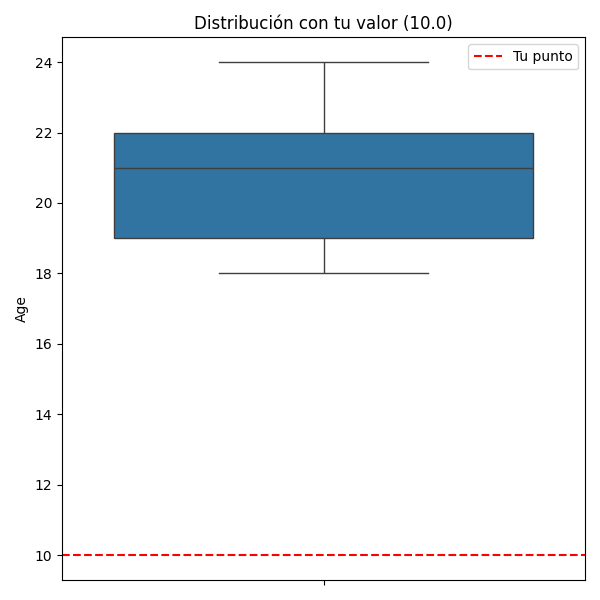
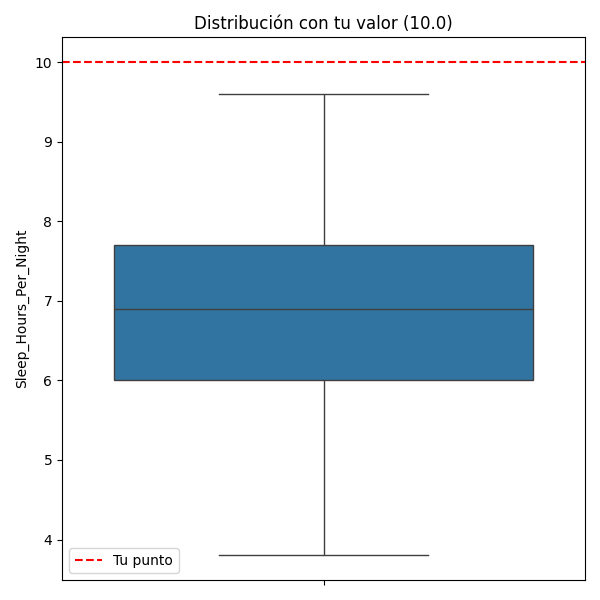
ADITION: ADD A NEW RANGE FOR SLEEP

diff --git a/app/api/v1/services/boxplot/summary_plot_service.py b/app/api/v1/services/boxplot/summary_plot_service.py
@@ -180,7 +180,7 @@ def generate_summary_statistics(user_value: float, columna: str, df: pd.DataFram
                 )
                 recomendacion = "Busca maneras de priorizar tu descanso. El sueño insuficiente sostenido puede ser perjudicial."
 
-            else:
+            elif user_value > 8:
                 posicion = "Exceso de sueño"
                 interpretacion = (
                     f"Duermes {user_value} horas al día, lo que supera ampliamente las recomendaciones. "
